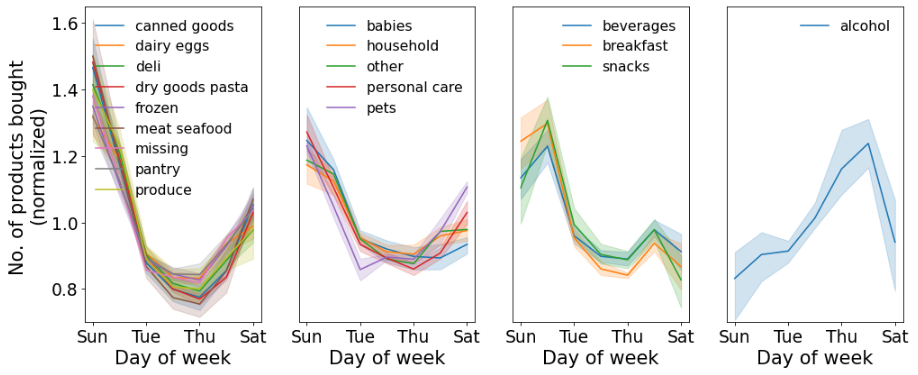
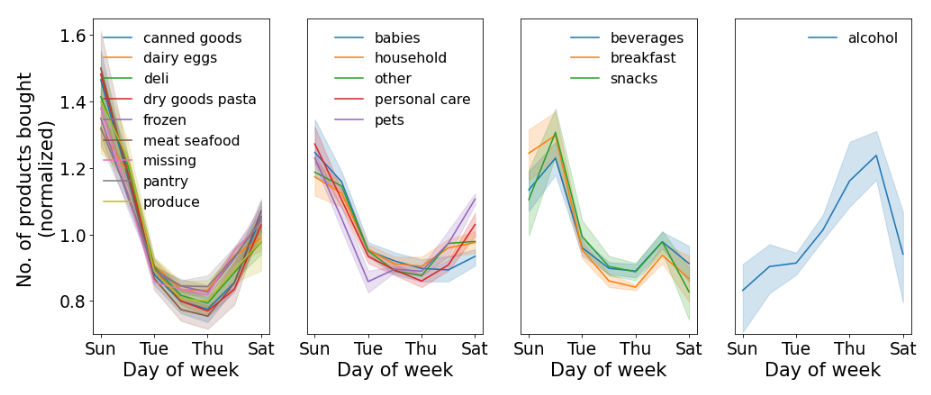
working point

Changed region(s): [[0.0, 0.0, 0.5185, 0.9973], [0.549, 0.0, 1.0, 0.9973], [0.549, 0.264, 0.6405, 0.5573]]

diff --git a/content/project/instacart_dataset_EDA/index.md b/content/project/instacart_dataset_EDA/index.md
@@ -190,6 +190,49 @@ sns.lineplot(data=df, x="order_hour_of_day", y="scaled_avg_num_of_product_bought
 
 
 
+#### Weekly and Daily Variations in Order Volume from Different Departments
 
+To understand customer purchasing patterns across product categories, we analyze how the number of purchases varies by day of the week and by department. We normalize the purchase counts for comparison across departments 
+
+```python
+# Query the count of purchases by department, aisle, and day of week
+query="""
+SELECT COUNT(p.product_id) AS number_of_purchase, 
+       a.aisle AS aisle, 
+       d.department AS department,
+       o.order_dow AS day_of_week
+FROM order_products__all AS ot
+LEFT JOIN orders AS o
+       ON ot.order_id=o.order_id
+LEFT JOIN products AS p
+       ON p.product_id=ot.product_id
+LEFT JOIN aisles AS a
+       ON p.aisle_id = a.aisle_id
+LEFT JOIN departments AS d
+       ON d.department_id = p.department_id
+GROUP BY d.department, a.aisle, o.order_dow
+"""
+df = pd.read_sql(query, engine)
+
+# Normalize purchase count plots
+df['norm_number_of_purchase']=(df.groupby('aisle')['number_of_purchase']
+                               .transform(lambda x: x/x.mean()))
+
+# Grouping departments in 4 categories and 
+#creating visualizations with departmentwise grouping
+department_groups=[['produce','deli','dairy eggs','canned goods','meat seafood','missing','dry goods pasta','pantry','frozen'],
+                   ['other', 'pets','household','babies','personal care'],
+                   ['beverages','breakfast','snacks'],
+                   ['alcohol']];
+fig, axes = plt.subplots(1, len(department_groups), figsize=(14, 6)) 
+for i in range(len(department_groups)):
+    sns.lineplot(data=df[(df['department'].isin(department_groups[i]))], 
+                 x="day_of_week", y="norm_number_of_purchase", hue="department", ax=axes[i])
+```
+{{< figure src="/images/Instacart040647.png" class="round" >}}
+   
+By replacing `order_dow` with `order_hour_of_day`, the same code can be used to analyze order volume across hours of the day.
+
+{{< figure src="/images/Instacart040718.png" class="round" >}}
 
 
